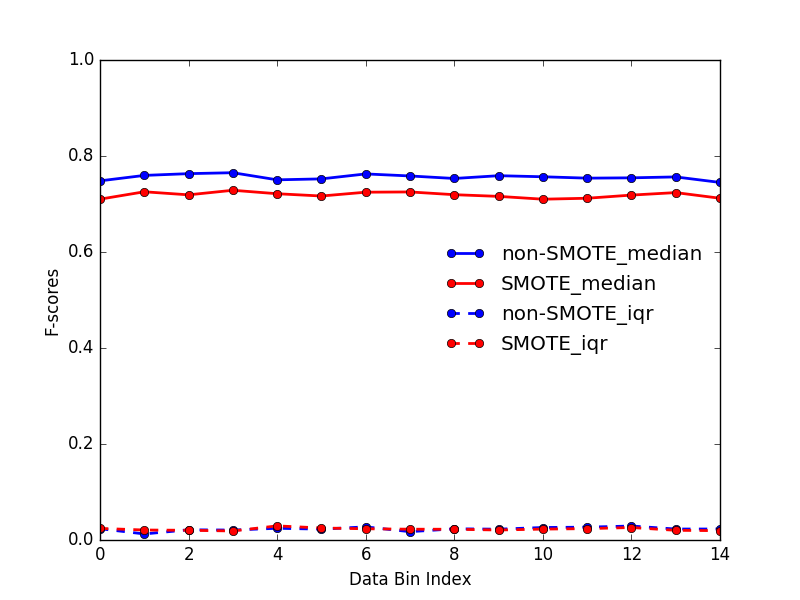
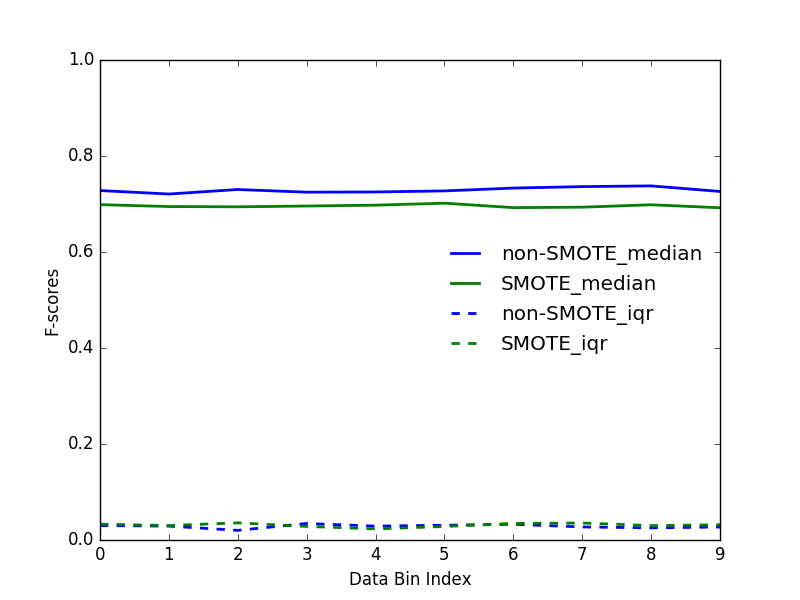
update results

diff --git a/code/EmailSignatureExtraction_v4.py b/code/EmailSignatureExtraction_v4.py
@@ -17,9 +17,9 @@ EXIT_FAILURE = -1
 EXIT_SUCCESS = 0
 NUM_OF_ITERATION = 10 # number of iteration for random order of data entries
 NUM_OF_CROSSFOLD = 5 # number of cross-validation
-NUM_OF_BINS = 15 # number of dataset bins
+NUM_OF_BINS = 10 # number of dataset bins
 SIZE_DIFF_TOL = 0.001 # tolerance of majority and minority data size difference ratio
-SAMPLE_SIZE_RATIO = 0.6 # percentage of total dataset used in the current experiment
+SAMPLE_SIZE_RATIO = 0.4 # percentage of total dataset used in the current experiment
 
 def main():
     """
@@ -39,7 +39,7 @@ def main():
               "DT": sklearn.tree.DecisionTreeClassifier(), \
               "NBayes": sklearn.naive_bayes.GaussianNB(), \
               "NNeighbors": sklearn.neighbors.nearest_centroid.NearestCentroid()}
-    model_chosen = "NNeighbors"
+    model_chosen = "Logit"
     print "Classifier Type:", model_chosen
     for binIndex in range(NUM_OF_BINS):
         print "Experiment on DataSet#", str(binIndex)
@@ -77,7 +77,6 @@ def main():
     print "All Experiments Done!"
     save_stats(stats_Fscores_ns, stats_recalls_ns, stats_precisions_ns, stats_Fscores_ws, stats_recalls_ws,\
                stats_precisions_ws, model_name=model_chosen)
-    #plot_stats(stats_Fscores_ns, stats_Fscores_ws, title="Fscores", model_name=model_chosen)
     print "Statistics ready!"
 
 def save_stats(stats_Fscores_ns, stats_recalls_ns, stats_precisions_ns, stats_Fscores_ws, stats_recalls_ws, \
